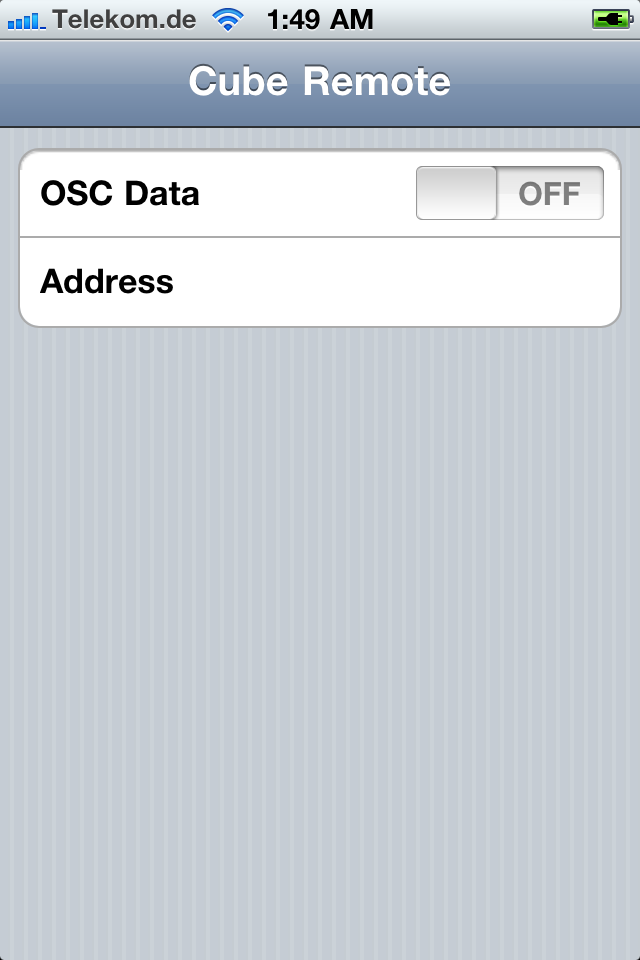
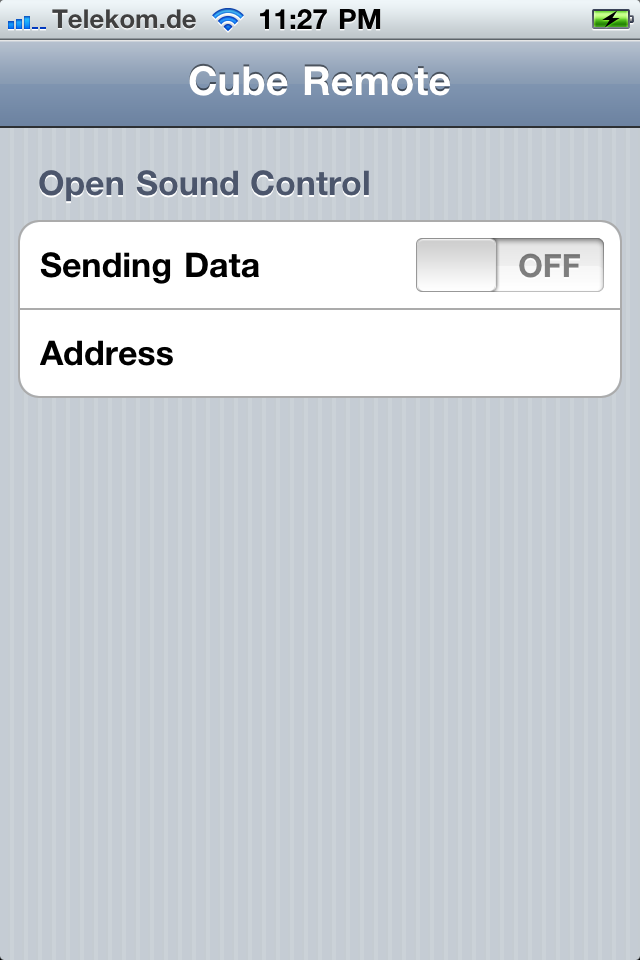
Added table group header.

diff --git a/CubeRemote/CubeRemoteViewController.m b/CubeRemote/CubeRemoteViewController.m
@@ -35,6 +35,7 @@
 
 - (void)viewDidUnload
 {
+	NSLog(@"View did unload");
 	[super viewDidUnload];
 }
 
@@ -45,6 +46,16 @@
 }
 
 #pragma mark - UITableView data source methods
+
+- (NSString *)tableView:(UITableView *)tableView titleForHeaderInSection:(NSInteger)section
+{
+	NSString *sectionHeader = nil;
+
+	if (section == 0)
+		sectionHeader = NSLocalizedString(@"CROpenSoundControl", "OSC Label");;
+
+	return sectionHeader;
+}
 
 - (NSInteger)tableView:(UITableView *)tableView numberOfRowsInSection:(NSInteger)section 
 {

diff --git a/CubeRemote/CubeRemoteViewController.h b/CubeRemote/CubeRemoteViewController.h
@@ -12,6 +12,8 @@
 @interface CubeRemoteViewController : UIViewController <UITableViewDelegate, UITextFieldDelegate> {
 
 	CubeRemoteAppDelegate *appDelegate;
+
+	NSArray *sectionArray;
 }
 
 @property (nonatomic, retain) IBOutlet UISwitch * toggleOnOff;
